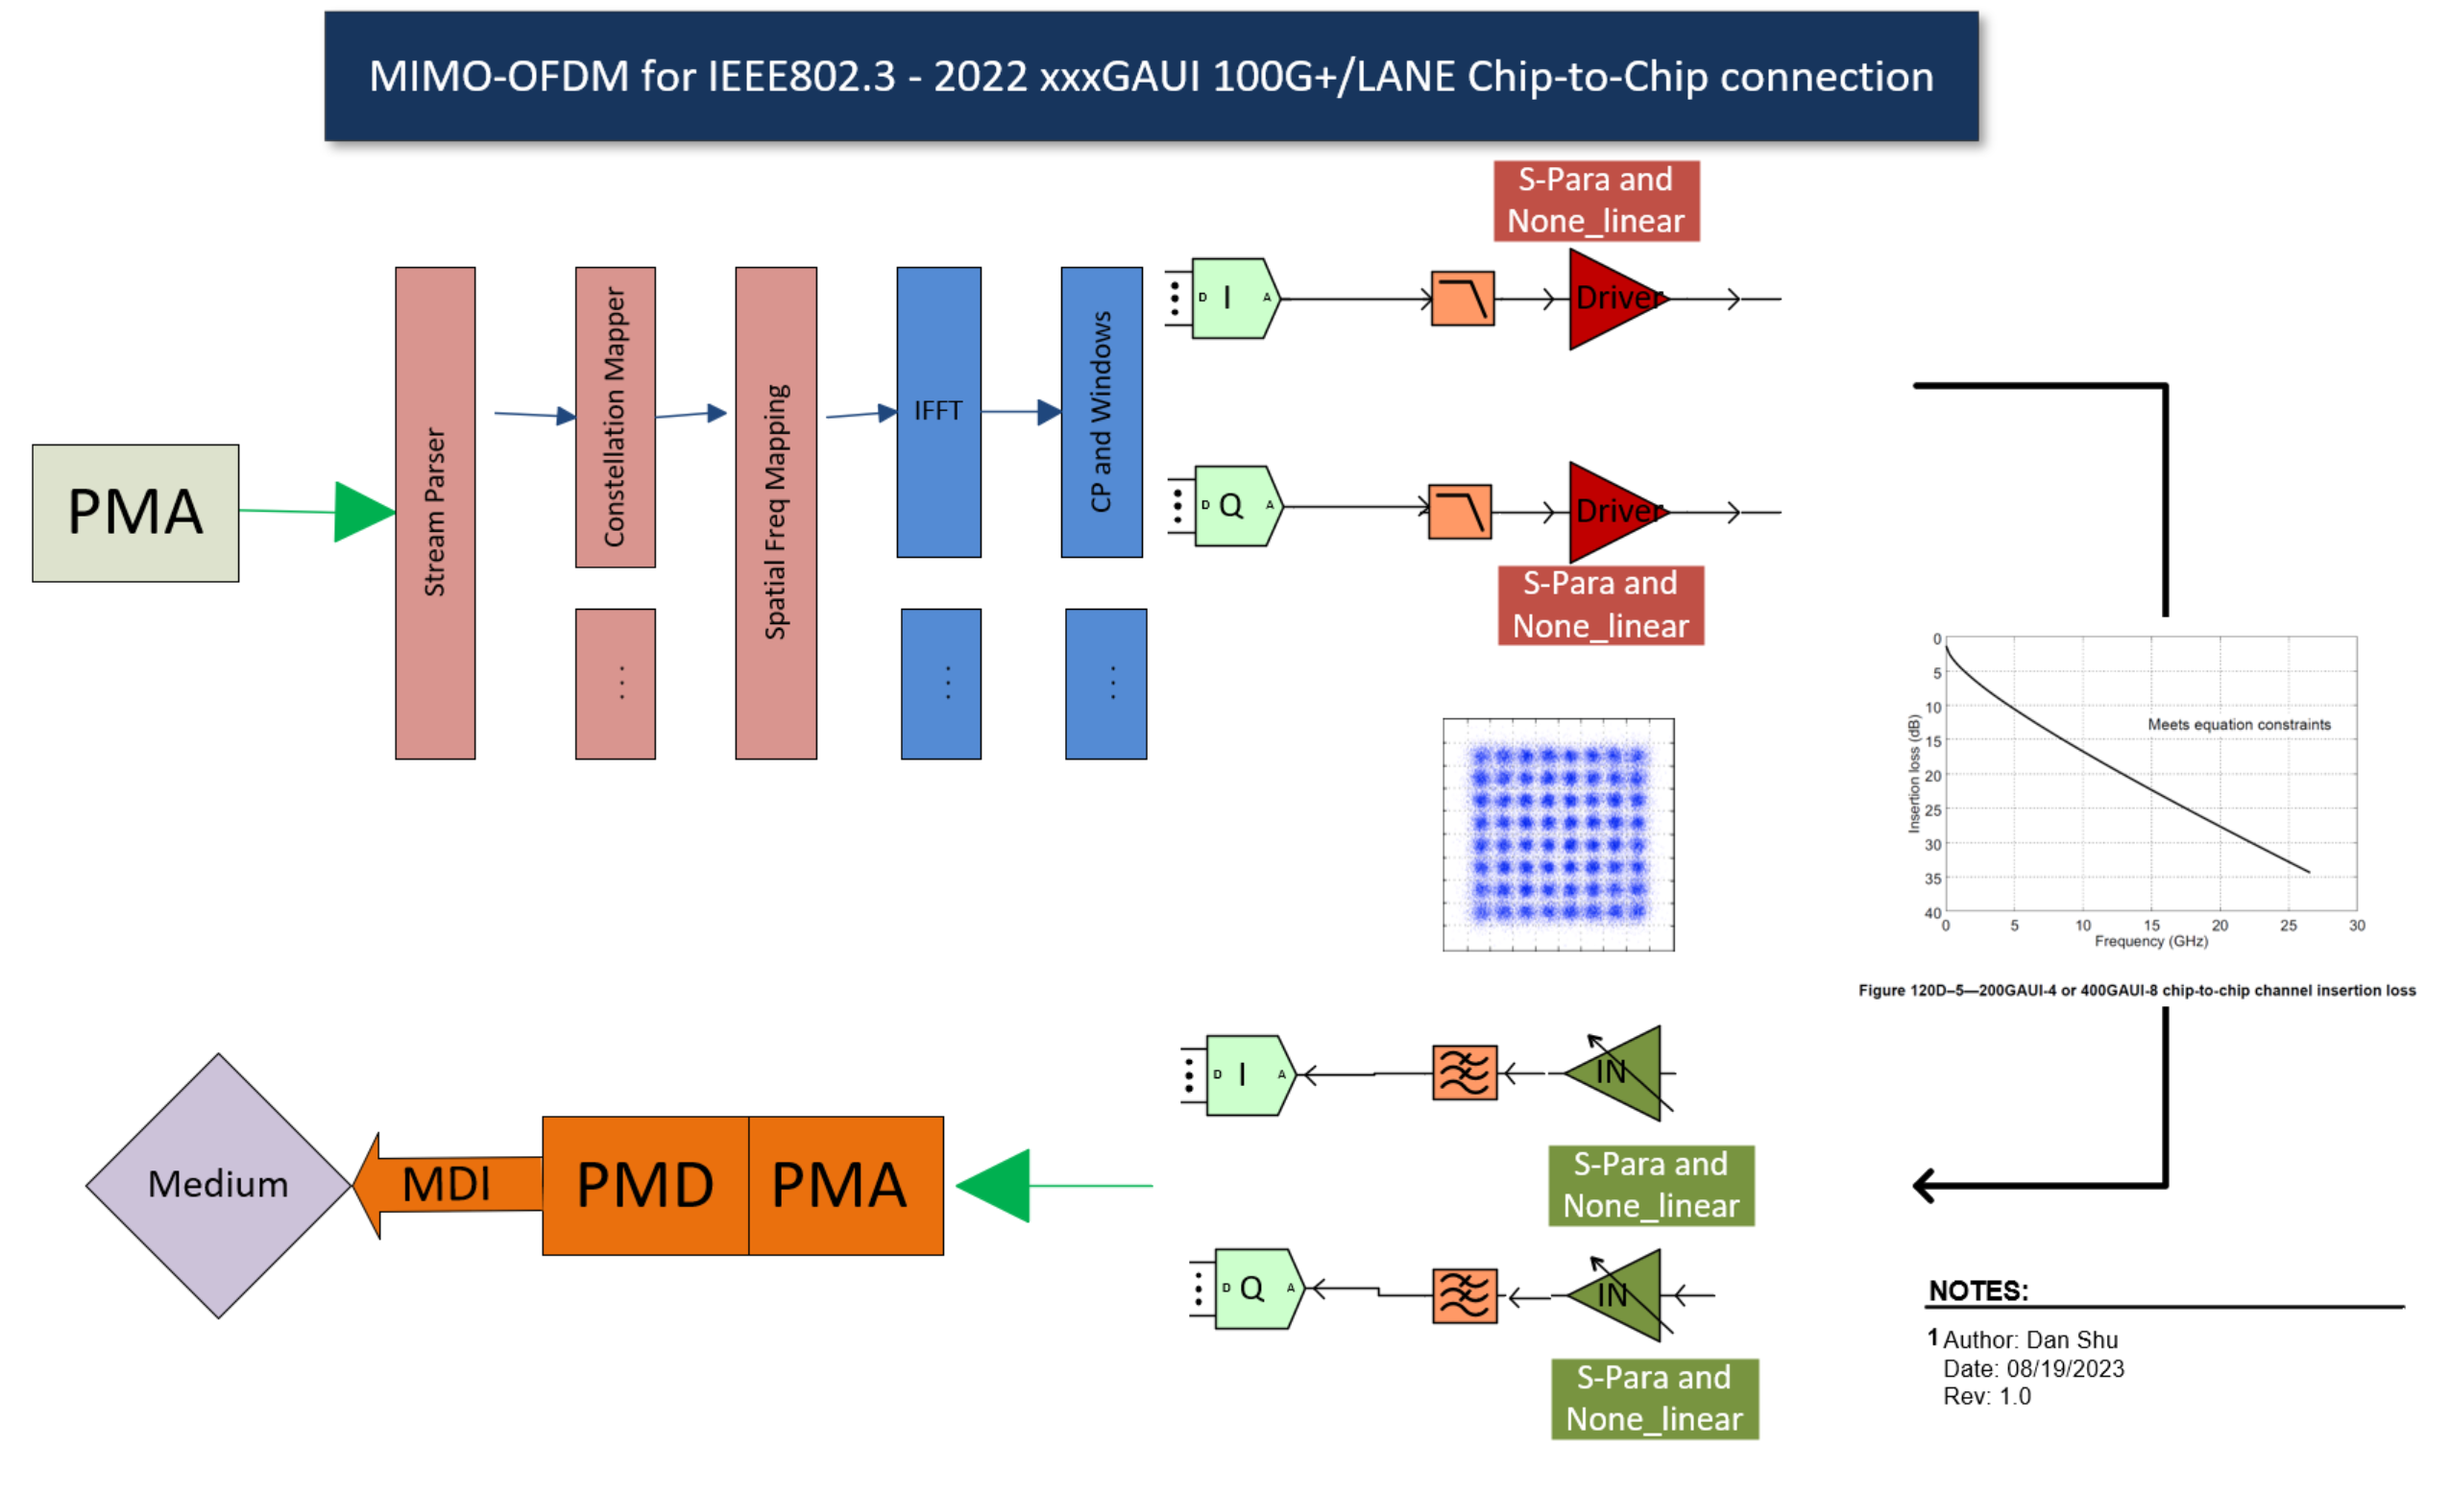
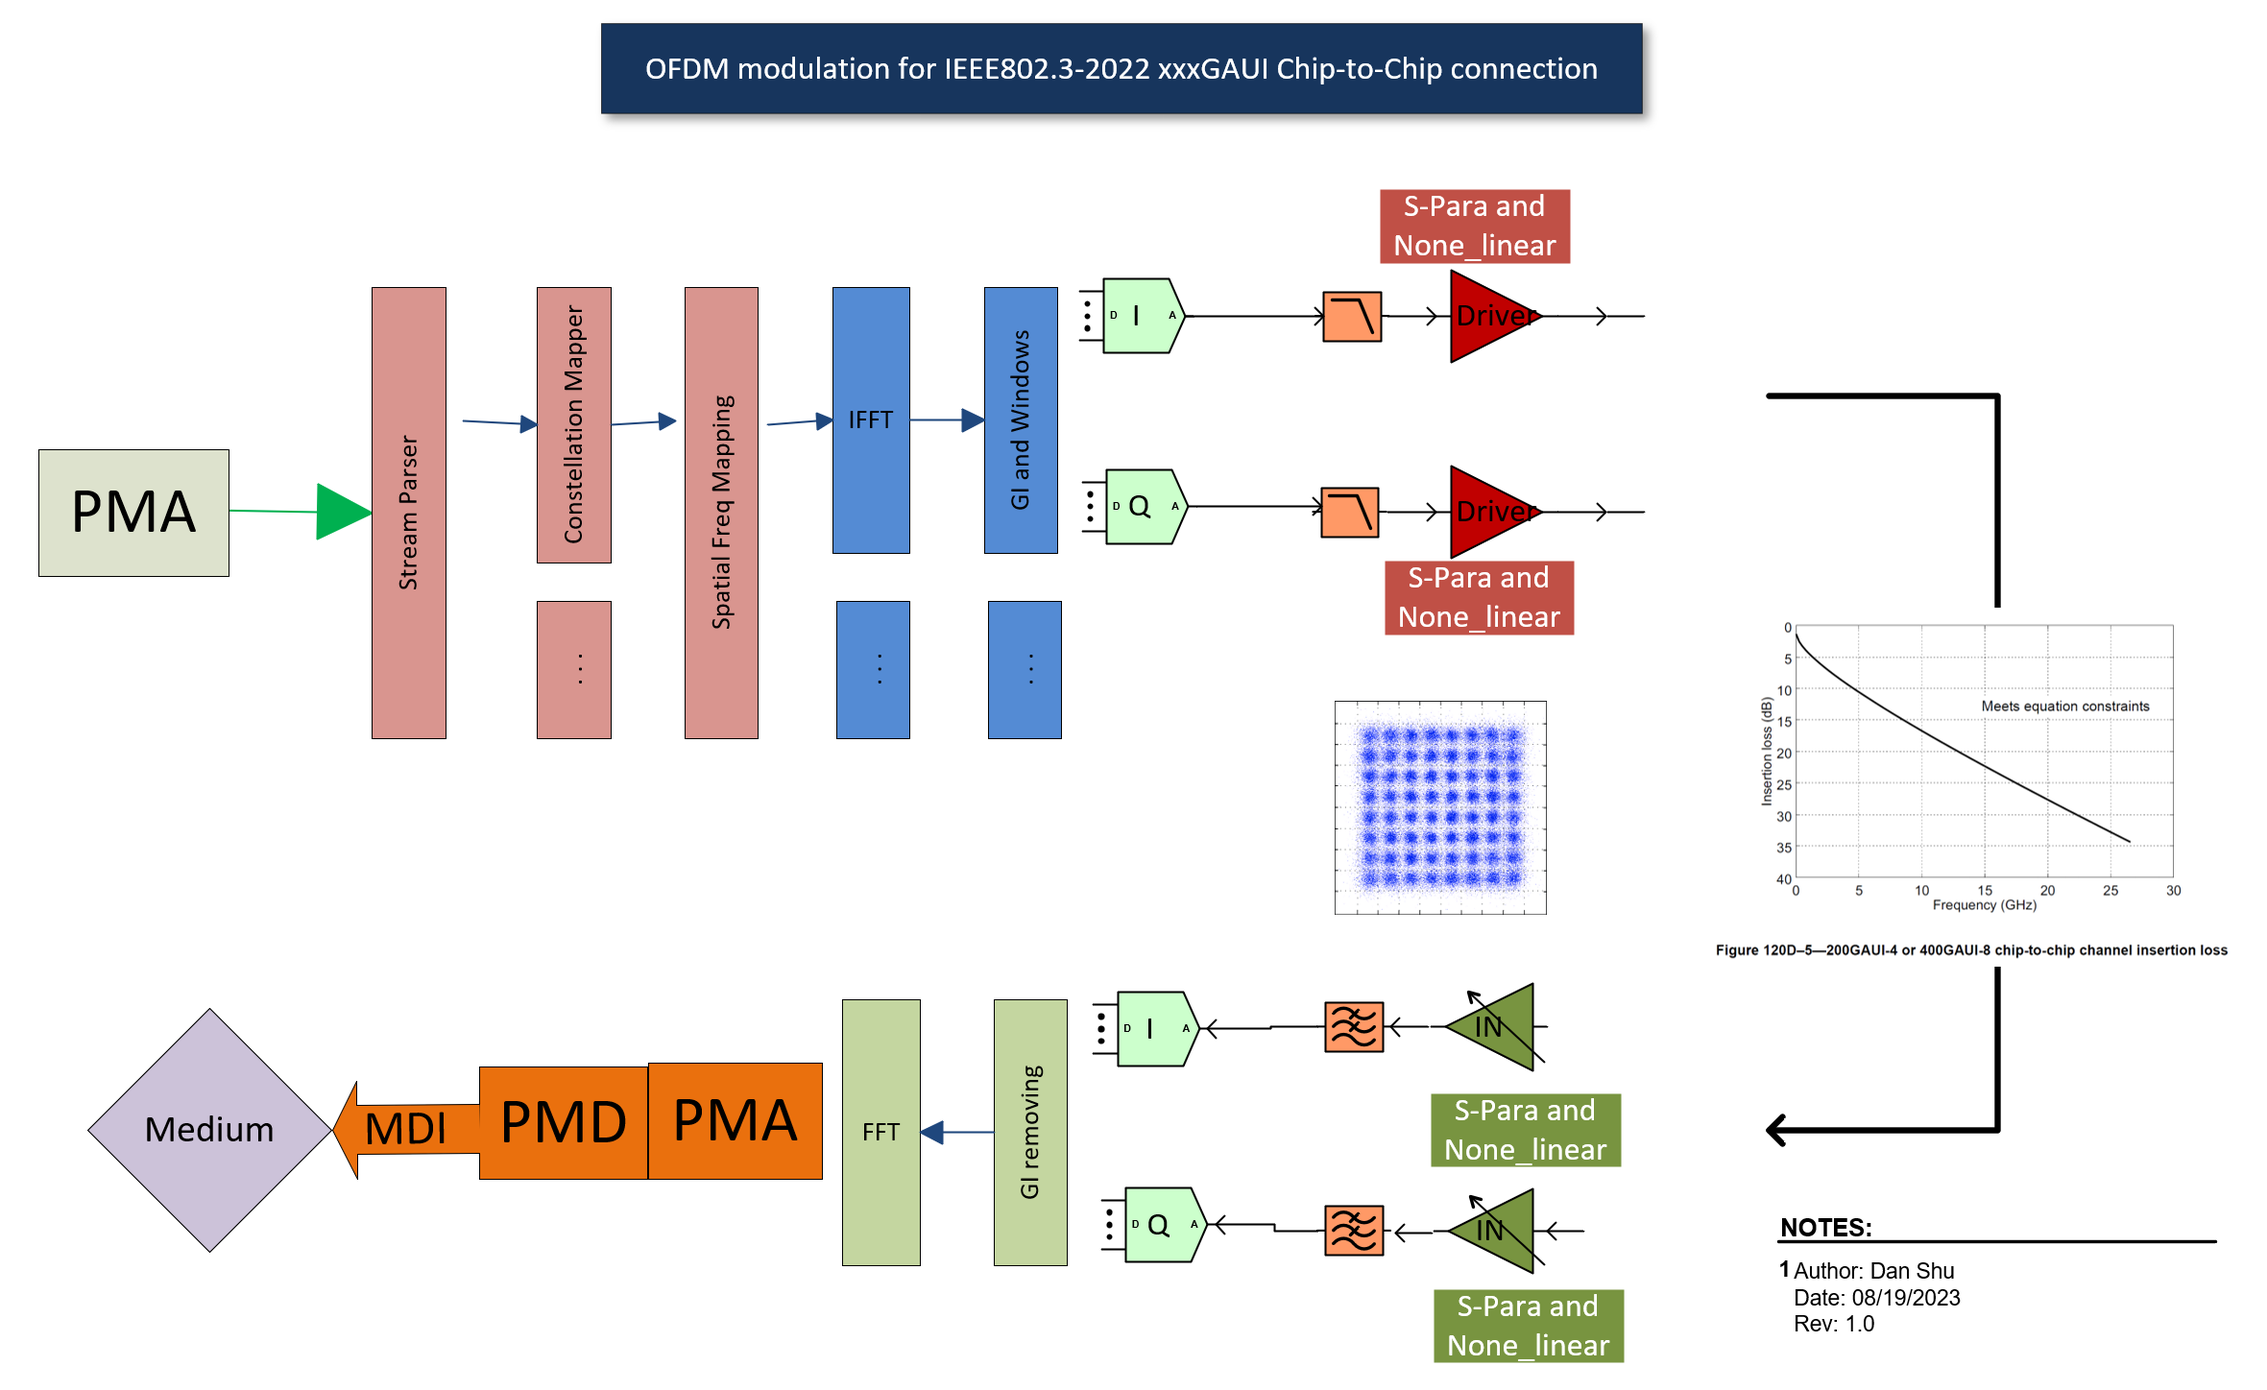
updata new blog

diff --git a/_posts/2023-08-19-blog-post-5.md b/_posts/2023-08-19-blog-post-5.md
@@ -10,7 +10,7 @@ tags:
   - IEEE802.3
   - SerDes
 ---
-
+### Introduction of the MIMO-OFDM based highspeed IO
 With the ongoing increase in demand for higher System-on-Chip (SoC) I/O speeds, the significance of data rates for chip-to-chip (C2C) and chip-to-module (C2M) communication is becoming more crucial than ever. The adoption of PMA4 has become prevalent in SerDes design, and even the consideration of PAM8 modulation is on the horizon. However, while the relatively simple architecture of NRZ, PAM4, and PAM8 offers advantages, these modulation formats also suffer from suboptimal spectrum efficiency. This challenge is particularly pronounced when limitations in PCB or substrate RF bandwidth act as bottlenecks for achieving desired data throughput performance.
 
 <a href="/images/MIMO_OFDM-Modulation.png">
@@ -32,7 +32,7 @@ The upcoming era of high-speed I/O is poised to embrace the MIMO-OFDM architectu
 
 3\.  The utilization of OFDM/QAM1024 results in a throughput that is 3.33 times higher than that achieved by PAM8, with a similar level of bandwidth and SDNR at 32dB.
 
-
+### Existing Highspeed IO/SerDes for C2C, C2M connection
 Below picture is the IEEE802.3-2022 attachment unit interface(AUI) to show the PCB insertion loss limitations.
 
 <a href="/images/IEEE802.3_AUI.png">
@@ -42,6 +42,7 @@ Below picture is the IEEE802.3-2022 attachment unit interface(AUI) to show the P
 </a>
 *pic2 Attachment Unit Interface(AUI): channel loss challenges*
 
+### Complex Signal over Real Signal
 Below pictures are the illustration of Complex Signal vs. Real Signal. A real signal is a type of signal that only contains real values. In other words, the signal values are real numbers, representing the amplitude or magnitude of the signal at a particular point in time. A complex signal, also known as a complex-valued signal, includes both real and imaginary components. The imaginary component represents a phase shift or angular information that complements the magnitude (real part) of the signal.
 <a href="/images/Matlab_complex_signal1.png">
     <img 
@@ -57,7 +58,17 @@ Below pictures are the illustration of Complex Signal vs. Real Signal. A real si
 </a>
 *pic4 Real signal*
 
-At end, the MIMO-OFDM SerDes design is poised to be compatible with PAM4 and has the potential to directly facilitate the driving of coherent optical MDI layer for simplifying the module design.
+### Example: Considering the design of Baseband OFDM for bandwidths of 10G/20GHz/40G/80G.
+
+Assume MII datarate=25Gb/s for NRZ and 25GBd/s for PAM4, the AUI one lane RF BW should be greater than 75%*25GHz= 18.75GHz. Let's pick the 20GHz Baseband BW as the reference point to calculate.
+1\. I/Q requires 2 lanes if we use the NRZ/PAM4 AUI concept. The Complex signal BW is 40GHz. ADC/DAC clock rate will be 80~100GHz which is doable.
+2\. We employ 512 subcarriers with an FFT/IFFT size of 512 points. The subcarrier spacing will be 78.125MHz, and the symbol length, excluding the cyclic prefix (CP), will be 12.8ns.
+3\. Guard Interval (GI) for solving inter-symbol interference (ISI) issue in OFDM system. Three GI strategies we can consider: A. Cyclic prefix (CP) -- commonly used in wireless industrial. B. Zero Padding -- some coherent system. C. Zero-guard-interval for coherent system. Since GI is the overhead of throughput, smaller GI should be get faster lane speed. Our user case here is the PCB/substrate with length about 1mm~100mm. Even considering if we would use optical fiber CD/PMD model, the GI should be within 0.1ns.
+4\. Packet length. This could be a complex topic. Let's assume MAC generate the package and Phy only rapacked it for sending. In this case, package length (how many symbols) will depending on Mac datasize, Phy's FFT/IFFT engin power, and size of SRAM in SoC to do the calculation.        
+
+### At end
+
+The MIMO-OFDM SerDes design is poised to be compatible with PAM4 and has the potential to directly facilitate the driving of coherent optical MDI layer for simplifying the module design.
 
 
 REFERENCES:
@@ -66,5 +77,7 @@ REFERENCES:
 
 [2] [Considerations on beyond 100G per lane electrical objectives: YuchunLU, Yan ZHUANG](https://www.ieee802.org/3/B400G/public/21_05/lu_b400g_01_210517.pdf) 
 
+[3] [Zero-guard-interval coherent optical OFDM with overlapped frequency-domain CD and PMD equalization: Chen Chen, Qunbi Zhuge, and David V. Plant](https://opg.optica.org/oe/fulltext.cfm?uri=oe-19-8-7451&id=211579)
 
+[4] [The Cyclic Prefix for OFDM](https://dspillustrations.com/pages/posts/misc/the-cyclic-prefix-cp-in-ofdm.html)
 ========================
